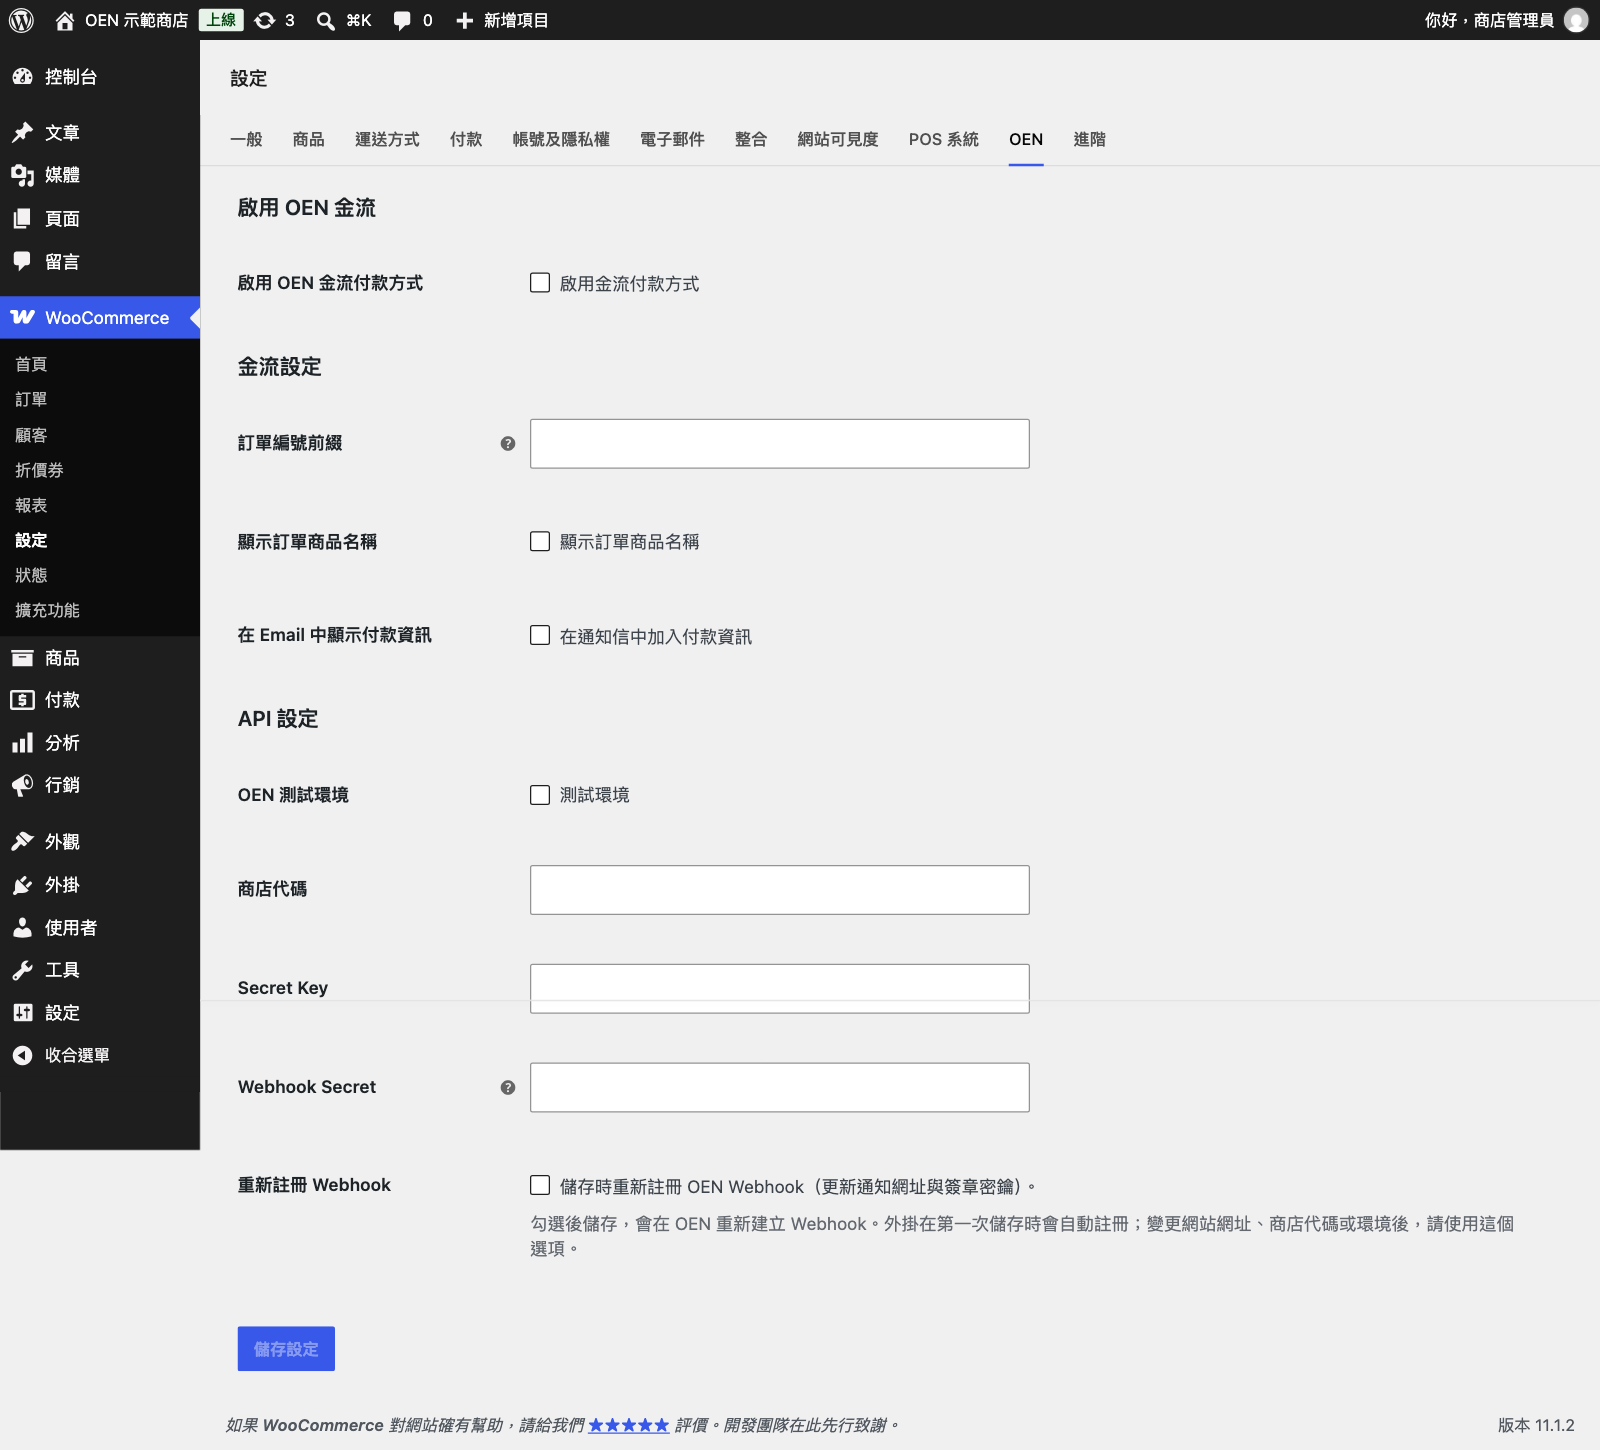
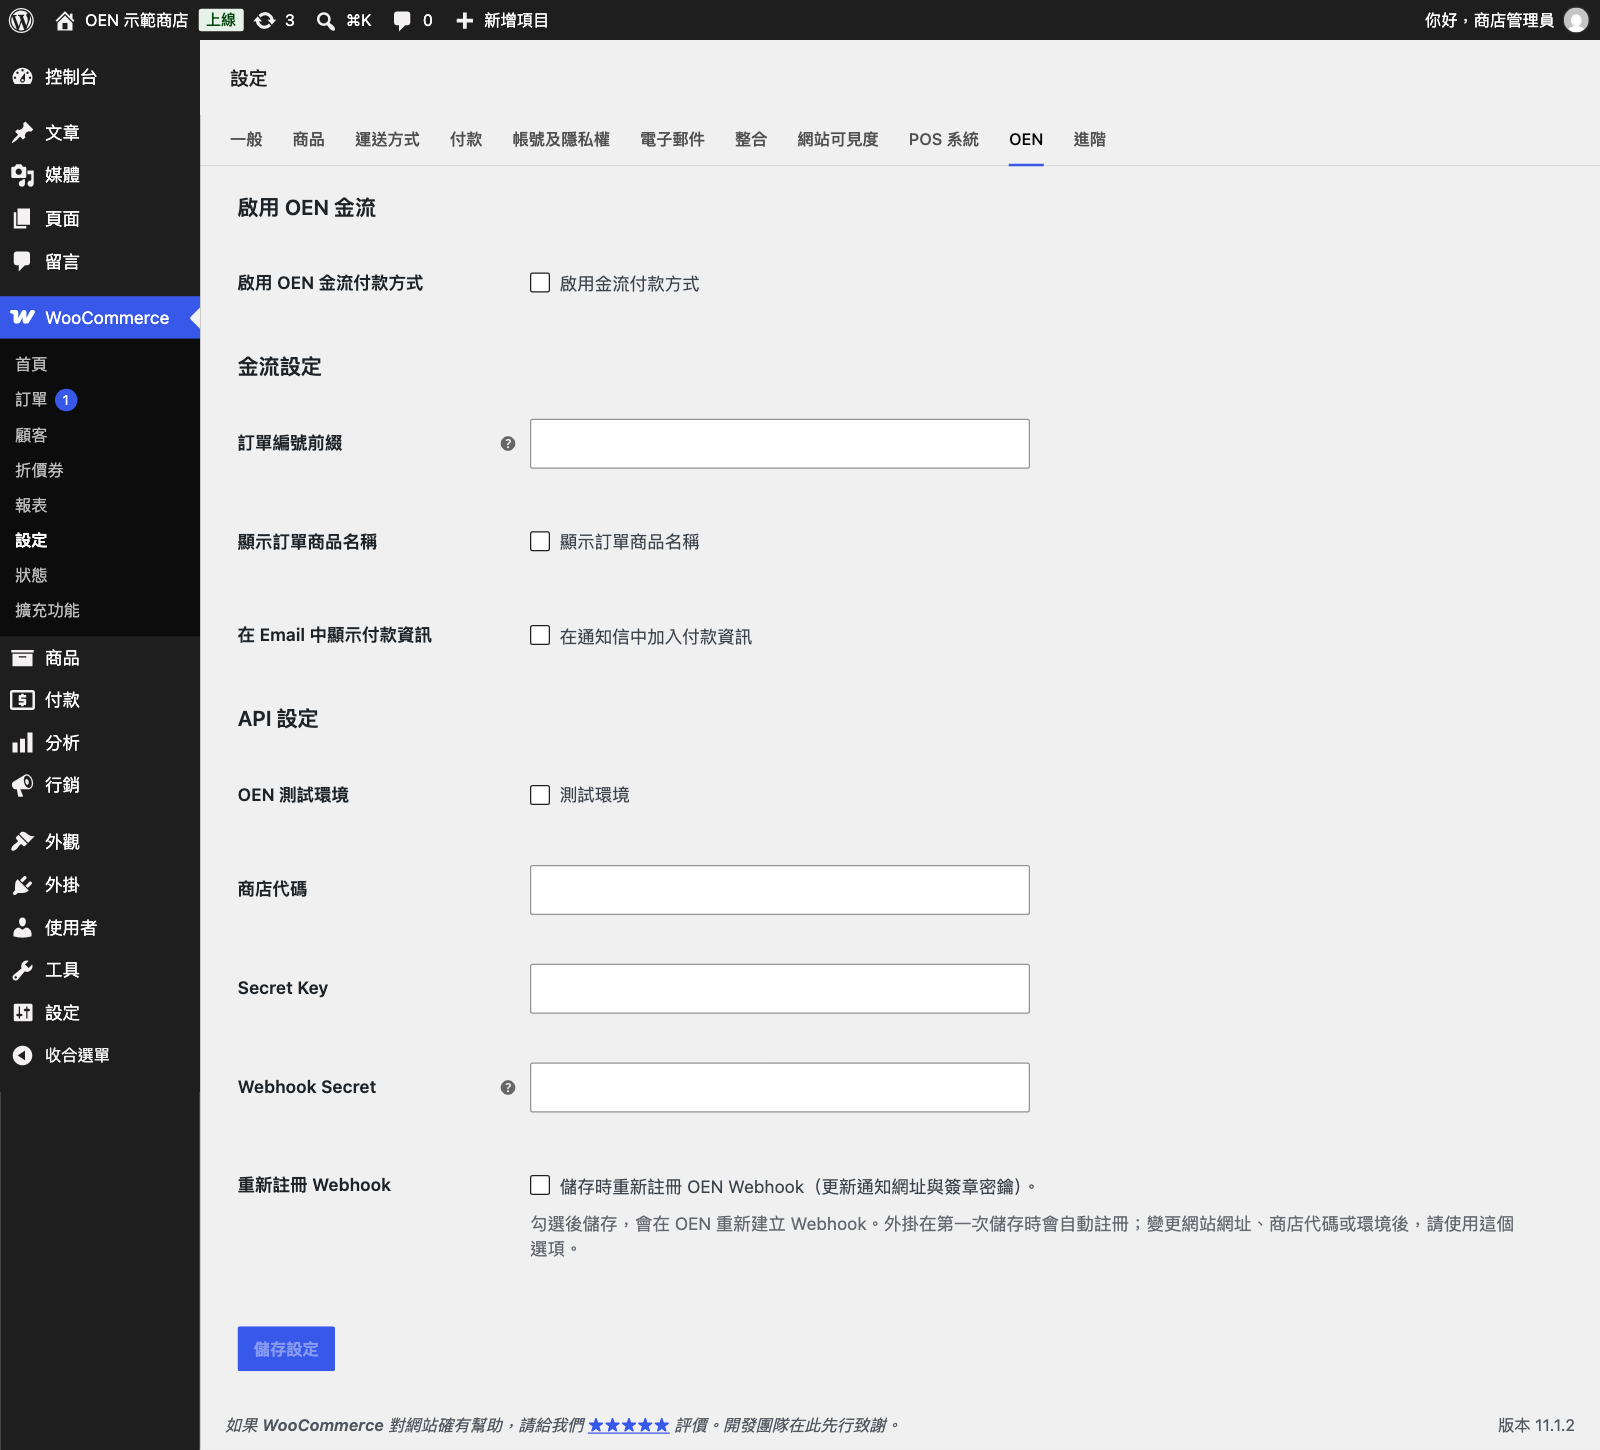
docs: address the final review notes
- Retake the OEN settings and order screenshots at full height, so the
  admin sidebar is complete and the order notes the guide quotes are
  visible.
- Remove the note that the CVS screenshots use another demo order; they
  now show the same order as the checkout steps.
- Quote the gateway setting label 啟用/停用 exactly as the plugin shows it.
- Name the checkout and refund errors in the 1.0.4 translation item.

Changed region(s): [[0.0, 0.7759, 0.125, 1.0], [0.0312, 0.2483, 0.0625, 0.2793]]

diff --git a/CHANGELOG.md b/CHANGELOG.md
@@ -8,7 +8,7 @@
 - 修正：改選付款方式導致訂單金額改變（例如不同付款方式的手續費不同）時，不再被擋下而無法付款。
 - 修正：後台退款失敗時，同時送達的應援退款通知不再遺失。
 - 修正：超商繳費期限改以網站的時區與日期、時間格式顯示；先前直接顯示應援回傳的 UTC 時間，比台灣時間早 8 小時。
-- 翻譯：補齊繁體中文翻譯。先前在繁體中文網站上，付款資訊、「重新註冊 Webhook」設定、Webhook 註冊訊息、訂單備註與應援 API 錯誤訊息仍顯示英文。
+- 翻譯：補齊繁體中文翻譯。先前在繁體中文網站上，付款資訊、「重新註冊 Webhook」設定、Webhook 註冊訊息、訂單備註、結帳與退款錯誤訊息，以及應援 API 錯誤訊息仍顯示英文。
 - 相容性：測試至 WordPress 7.1、WooCommerce 11.1。
 
 ## 1.0.3

diff --git a/docs/setup-guide.md b/docs/setup-guide.md
@@ -265,8 +265,6 @@
 - 已取得代碼的訂單，超過應援付款頁的付款時限後仍維持「保留」，消費者可以在繳費期限內繳費。
 - 消費者繳費後，應援通知外掛，訂單改為「處理中」。
 
-下面兩張截圖使用另一筆示範訂單，所以訂單編號和前面的截圖不同。
-
 ![超商繳費訂單](images/25-admin-order-cvs.png)
 
 消費者可在「已收到訂單」頁與「我的帳號 › 訂單」的「付款資訊」看到繳費超商、繳費代碼與繳費期限。訪客之後再開啟「已收到訂單」頁時，WooCommerce 會先要求輸入下單的 Email。勾選「在 Email 中顯示付款資訊」時，訂單通知信也會附上代碼。

diff --git a/README.md b/README.md
@@ -150,7 +150,7 @@
 
 | 設定 | 說明 |
 |---|---|
-| 啟用／停用 | 個別啟用付款方式 |
+| 啟用/停用 | 個別啟用付款方式 |
 | 標題 | 結帳頁顯示的付款方式名稱 |
 | 說明 | 結帳頁顯示的付款方式說明 |
 
